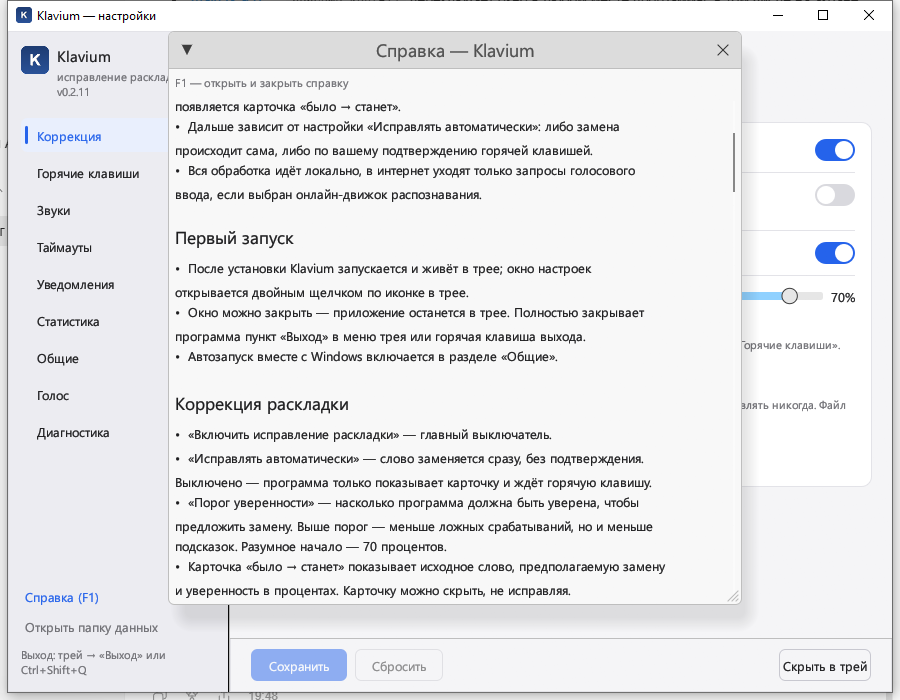
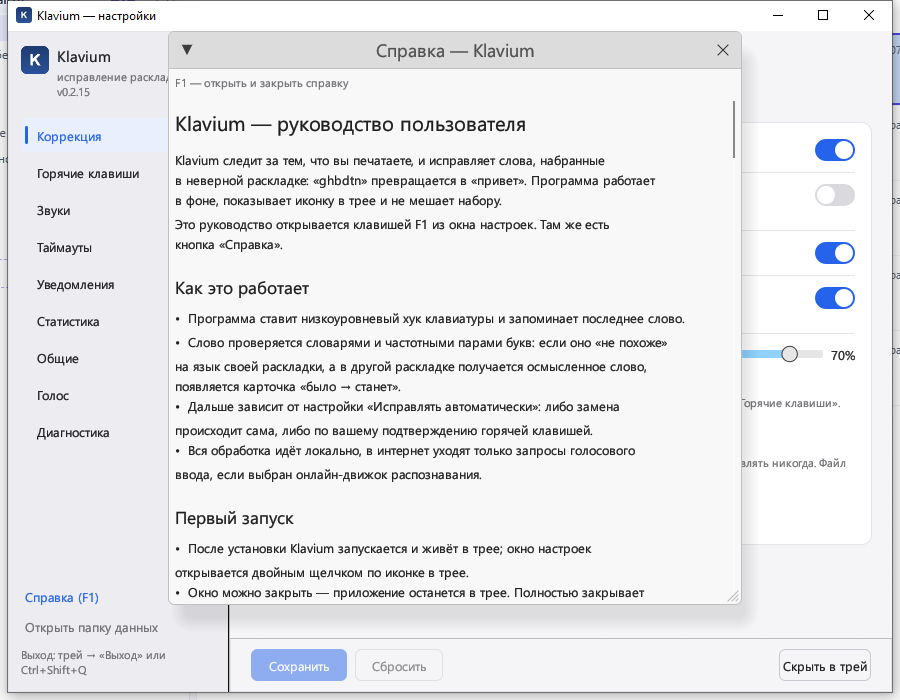
Релиз 0.3.0: README, скриншоты всех разделов
README переписан под 0.3: транслитерация, справка по F1, исправление выделенного с пунктуацией, обучение на отмене, новые горячие клавиши; добавлены скриншоты звуков, таймаутов, уведомлений, общих настроек и справки.

Скриншоты девяти секций обновлены на 0.3.0 (видна новая настройка и ссылка «Справка (F1)»).

Версия поднята до 0.3.0, дистрибутив собран, все 9 дымовых прогонов зелёные. Сниппеты (7.8) остаются на 0.3.1.

diff --git a/README.md b/README.md
@@ -8,7 +8,7 @@
 
 ![Настройки Klavium](docs/images/settings.png)
 
-> Интерфейс 0.2: светлая тема, карточки с тонкой обводкой, сегмент-контролы и переключатели — окно выглядит как системная утилита, а не как дефолтный egui.
+> Интерфейс 0.3: светлая тема, карточки с тонкой обводкой, сегмент-контролы и переключатели — окно выглядит как системная утилита, а не как дефолтный egui. Справка по всем функциям — по `F1`.
 
 ## Возможности
 
@@ -20,10 +20,18 @@
 - Пауза коррекции из меню трея: «На 30 минут» / «До перезапуска» / «Снять паузу». Состояние живёт только в памяти и снимается само по таймеру; в трее появляется пометка «(пауза)».
 - Всё локально: никакие нажатия никуда не отправляются.
 - Горячие клавиши настраиваются: раздел «Горячие клавиши» перехватывает нажатие, проверяет конфликты и предупреждает о клавишах без модификаторов. Если клавишу не удаётся поймать (например, `Pause`), сочетание можно вписать вручную — в том числе в русской раскладке.
+- Исправление выделенного (`Ctrl+Alt+X`): перекодирует любой выделенный фрагмент — фразу, абзац — с сохранением регистра и знаков препинания. Одиночные буквы-слова («z» → «я») тоже исправляются.
+- Отмена (`Ctrl+Alt+Z`) возвращает слово и раскладку, а заодно учит программу: отменённое слово попадает в стоп-лист и больше не предлагается (переключатель «Запоминать отменённые слова»).
 
 ![Горячие клавиши](docs/images/hotkeys.png)
 
 ![Карточка исправления](docs/images/correction-card.png)
+
+### 🔤 Транслитерация (`Ctrl+Alt+T`)
+- Переводит текст между кириллицей и латиницей: «привет» → «privet» и обратно. Работает на выделении и на слове, которое вы набираете прямо сейчас.
+- Таблица — бытовая, на основе ГОСТ 7.79: `й → y`, `х → kh`, `ц → ts`, `щ → shch`, `ы → y`, `э → e`; твёрдый и мягкий знаки не передаются.
+- Направление выбирается по составу текста; после замены раскладка переключается под результат. Если преобразовывать нечего — короткий тост, текст остаётся прежним.
+- Ограничения честно записаны в справке: «мышь» после двух преобразований станет «мыш», «экран» вернётся как «екран».
 
 ### 🎤 Голосовой ввод (`F9`)
 - Три движка на выбор: **Whisper** (полностью офлайн, модели от 74 МБ до ~1,5 ГБ — скачиваются прямо из настроек), **Vosk** (офлайн, русская модель ставится в один клик), **Google** (онлайн).
@@ -51,12 +59,29 @@
 
 ![Статистика](docs/images/stats.png)
 
+### 🎛 Остальные разделы
+- Звуки, таймауты, уведомления и общие настройки — всё меняется на лету и сразу применяется к работающей программе.
+
+![Звуки](docs/images/sounds.png)
+
+![Таймауты](docs/images/timeouts.png)
+
+![Уведомления](docs/images/notifications.png)
+
+![Общие](docs/images/general.png)
+
 ### 🩺 Диагностика
 - Версия, каталог данных и путь к журналу — видно, какая копия запущена и где её настройки.
 - Активные сочетания, состояние хука (получает клавиатуру или нет), время последнего колбэка и счётчик медленных колбэков (>50 мс).
 - Кнопки «Открыть журнал», «Открыть папку данных» и «Копировать отчёт» — готовый текст для обращения в поддержку.
 
 ![Диагностика](docs/images/diagnostics.png)
+
+### 📖 Справка по `F1`
+- Полное руководство по всем функциям — прямо в программе: `F1` в окне настроек или ссылка «Справка (F1)» в боковом меню.
+- Текст вшит в бинарник: справка открывается и в установленной копии, где рядом нет документации.
+
+![Справка](docs/images/help.png)
 
 ## Установка
 
@@ -78,7 +103,7 @@
 4. Окно можно закрыть — Klavium продолжит работать в трее. Выход — через меню трея или по хоткею выхода (по умолчанию `Ctrl+Shift+Q`).
 5. Повторный запуск `klavium.exe` просто откроет окно уже работающей программы.
 
-**Горячие клавиши по умолчанию:** `F8` — применить исправление, `Esc` — скрыть подсказку, `F9` — диктовка, `Ctrl+Shift+Q` — выход. Все четыре переназначаются в настройках: раздел «Горячие клавиши» → «Изменить» → нажмите сочетание; изменения применяются сразу после «Сохранить». Поддерживаются `F1`–`F24`, именованные клавиши (`Space`, `PageUp`, `Delete`, `Pause`, `PrintScreen` и др.), буквы и цифры — сочетание ловится нажатием или вписывается вручную.
+**Горячие клавиши по умолчанию:** `F8` — применить исправление, `Ctrl+Alt+Z` — отменить, `Ctrl+Alt+X` — исправить выделенное, `Ctrl+Alt+T` — транслитерация, `Esc` — скрыть подсказку, `F9` — диктовка, `Ctrl+Shift+Q` — выход. Все переназначаются в настройках: раздел «Горячие клавиши» → кнопка с сочетанием → нажмите новое; изменения применяются сразу после «Сохранить». Поддерживаются `F1`–`F24`, именованные клавиши (`Space`, `PageUp`, `Delete`, `Pause`, `PrintScreen` и др.), буквы и цифры — сочетание ловится нажатием или вписывается вручную.
 
 ## Как это работает
 
@@ -117,7 +142,7 @@ pwsh tools\build_dist.ps1                             # установщик + p
 
 - **Программу не видно, хотя она запущена** — Klavium живёт в трее. Открыть окно: меню трея → «Настройки», либо запустите `klavium.exe` ещё раз.
 - **Windows SmartScreen предупреждает** — так и должно быть у сборок без подписи: «Подробнее» → «Выполнить в любом случае».
-- **Слово не исправляется** — проверьте, что в разделе «Коррекция» включены исправление и показ подсказки; поправьте порог уверенности или включите «Исправлять автоматически (без F8)».
+- **Слово не исправляется** — проверьте, что в разделе «Коррекция» включены исправление и показ подсказки; поправьте порог уверенности или включите «Исправлять автоматически (без F8)». Если исправление этого слова вы когда-то отменили (`Ctrl+Alt+Z`), оно могло попасть в стоп-лист: уберите строку `!слово` в `user_dict.txt` (кнопка «Открыть файл» в разделе «Коррекция»).
 - **Диктовка не печатает текст** — в разделе «Голос» выберите движок и модель (для Whisper — скачайте модель кнопкой), дождитесь статуса «готов» и нажмите `F9`. Быстрая самопроверка — «Тест распознавания».
 - **Как удалить?** — через «Установка и удаление программ» Windows; при удалении программа спросит, что делать с данными.
 

diff --git a/docs/HANDOFF.md b/docs/HANDOFF.md
@@ -1,6 +1,6 @@
 # Klavium — передача работы другому агенту
 
-Состояние на **2026-11-14**: версия **0.2.15**, ветка `main`, коммит `18118fe`,
+Состояние на **2026-11-14**: версия **0.3.0**, ветка `main`, коммит `HASH`,
 рабочая копия чистая, `origin/main` синхронизирован. Приложение собрано,
 установлено и запущено.
 
@@ -73,10 +73,11 @@ git add -A; git commit -m "…"; git push origin main
 | 0.2.13 | 7.12 Выделенное: `convert::convert_selection` — знаки препинания перекодируются вместе с буквами (было «?» вместо запятой и «/» вместо точки), регистр сохраняется; проверка `tools\check-long-text.ps1` (1303 символа, 0 расхождений) |
 | 0.2.14 | 7.13 Надёжность: атомарное сохранение `config.json` с `.bak`, ротация журнала (5 МБ × 3), паника в журнал, тост при пустом выделении, падежные окончания в детекции («раскладку», «закладку»), защита от «ююю» |
 | 0.2.15 | 7.14 Обучение на отмене (`Ctrl+Alt+Z` → `!слово` в словаре), самовосстановление хука (пересоздание потока, порог 30 с), подпись дистрибутива через `KLAVIUM_SIGN_CERT` |
+| 0.3.0 | Релиз: README под 0.3 (транслитерация, справка `F1`, обучение на отмене), скриншоты всех 9 секций и справки, дистрибутив |
 
 ## 4. Что осталось — следующий шаг
 
-### 7.8. Сниппеты (следующее, версия 0.2.11)
+### 7.8. Сниппеты (следующее, версия 0.3.1)
 
 - `snippets: Vec<Snippet { trigger, expansion }>` в конфиге; триггер ≥ 2 символов,
   без пробелов.
@@ -85,11 +86,6 @@ git add -A; git commit -m "…"; git push origin main
 - Приёмка: `;адр` → адрес; при конфликте с словарным словом побеждает сниппет; тесты.
 - Нужна карточка редактирования в настройках (список + добавить/удалить), по образцу
   карточки «Приложения» в `draw_app_rules`.
-
-### Затем — 0.3.0
-
-README и свежие скриншоты всех секций (`docs/images`), разбор «что нового», проверка
-всех 9 дымовых прогонов, тег релиза по желанию пользователя.
 
 ## 5. Как проверять функции (шпаргалка)
 

diff --git a/docs/TZ-0.2.md b/docs/TZ-0.2.md
@@ -252,6 +252,10 @@ FST (`fst` crate): `build.rs` в `klavium-core` читает `data/*_words.txt`,
 - `tools\build_dist.ps1` умеет подписывать: `$env:KLAVIUM_SIGN_CERT` (путь к .pfx) и `$env:KLAVIUM_SIGN_PASSWORD`; exe подписывается до упаковки, установщик — после. Без сертификата сборка идёт как раньше — с подсказкой в выводе.
 **Приёмка**: живой прогон — «ghbdtn» → «привет» → отмена → в журнале `слово в стоп-лист: «ghbdtn»` и тост; повторный набор слова больше не даёт подсказки. Хук после переделки ставится и ловит клавиши.
 
+### Релиз 0.3.0 ✅ (2026-11-14)
+README переписан под 0.3: транслитерация, справка по `F1`, исправление выделенного с пунктуацией, обучение на отмене. Скриншоты всех девяти секций и справки обновлены (`docs/images`), дистрибутив `KlaviumSetup-0.3.0.exe` собран, все дымовые прогоны зелёные.
+В релиз сознательно не вошли сниппеты (7.8) — запланированы на 0.3.1.
+
 ---
 
 ## 8. Горячие клавиши по умолчанию
@@ -279,7 +283,7 @@ FST (`fst` crate): `build.rs` в `klavium-core` читает `data/*_words.txt`,
 | 1 | P1a — интерфейс 2.0 | 4–6 дней | **0.2.0** |
 | 2 | P1b — память | 2–3 дня | 0.2.1 |
 | 3 | P1c — скорость ввода | 1–2 дня | 0.2.2 |
-| 4 | P2 — функции 7.1–7.9 | 5–7 дней | **0.3.0** |
+| 4 | P2 — функции 7.1–7.7, 7.9–7.14 (7.8 сниппеты — 0.3.1) | 5–7 дней | **0.3.0** |
 
 Итого ~15–20 рабочих дней. Правило: блок 0 обязателен до любого релиза; если время поджимает — режем функции (7.7, 7.8), но не устойчивость.
 
